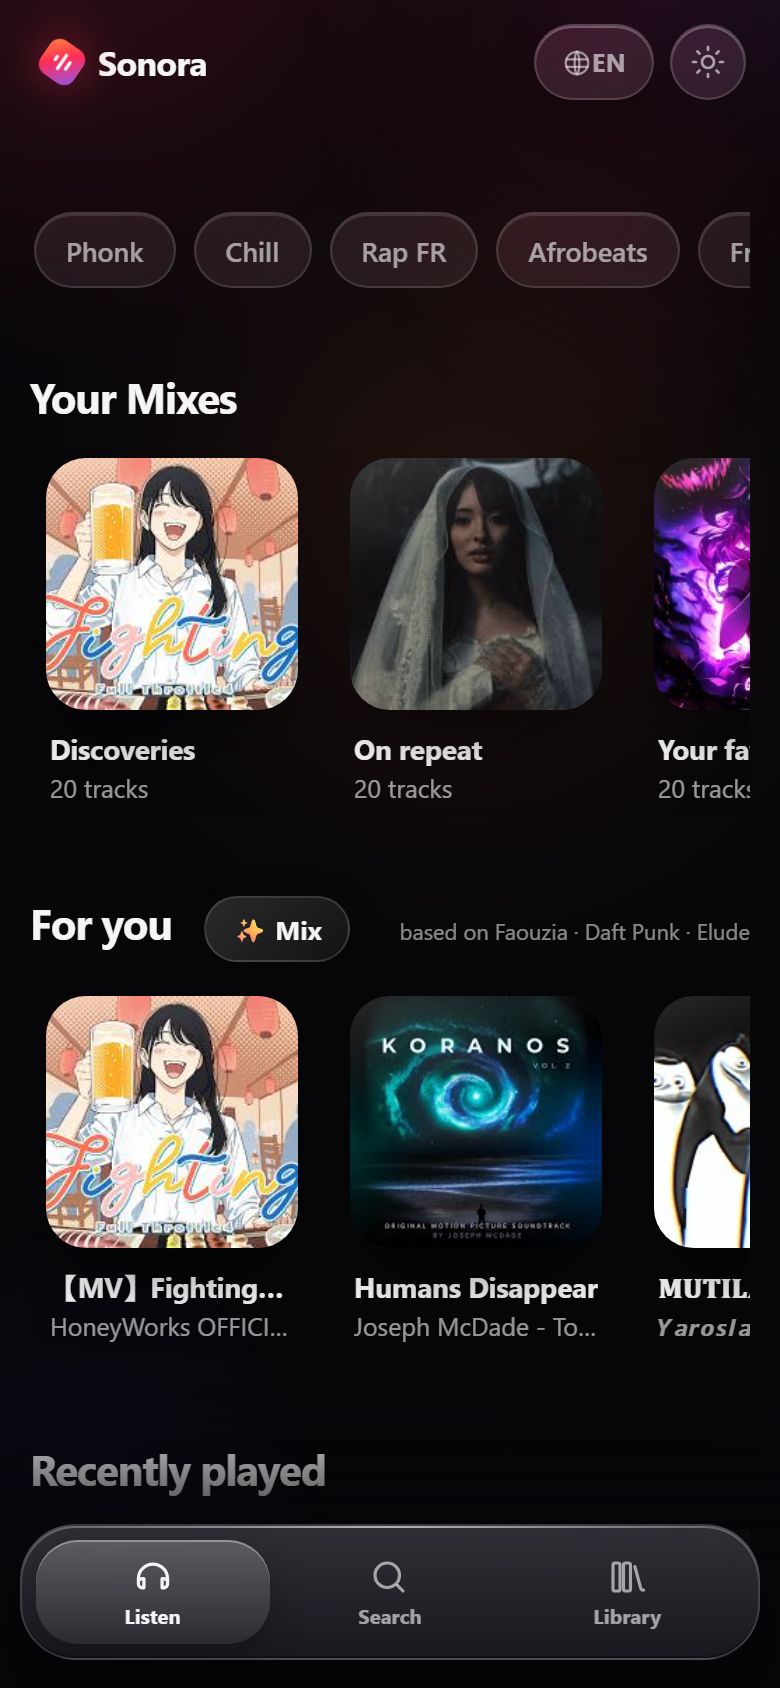
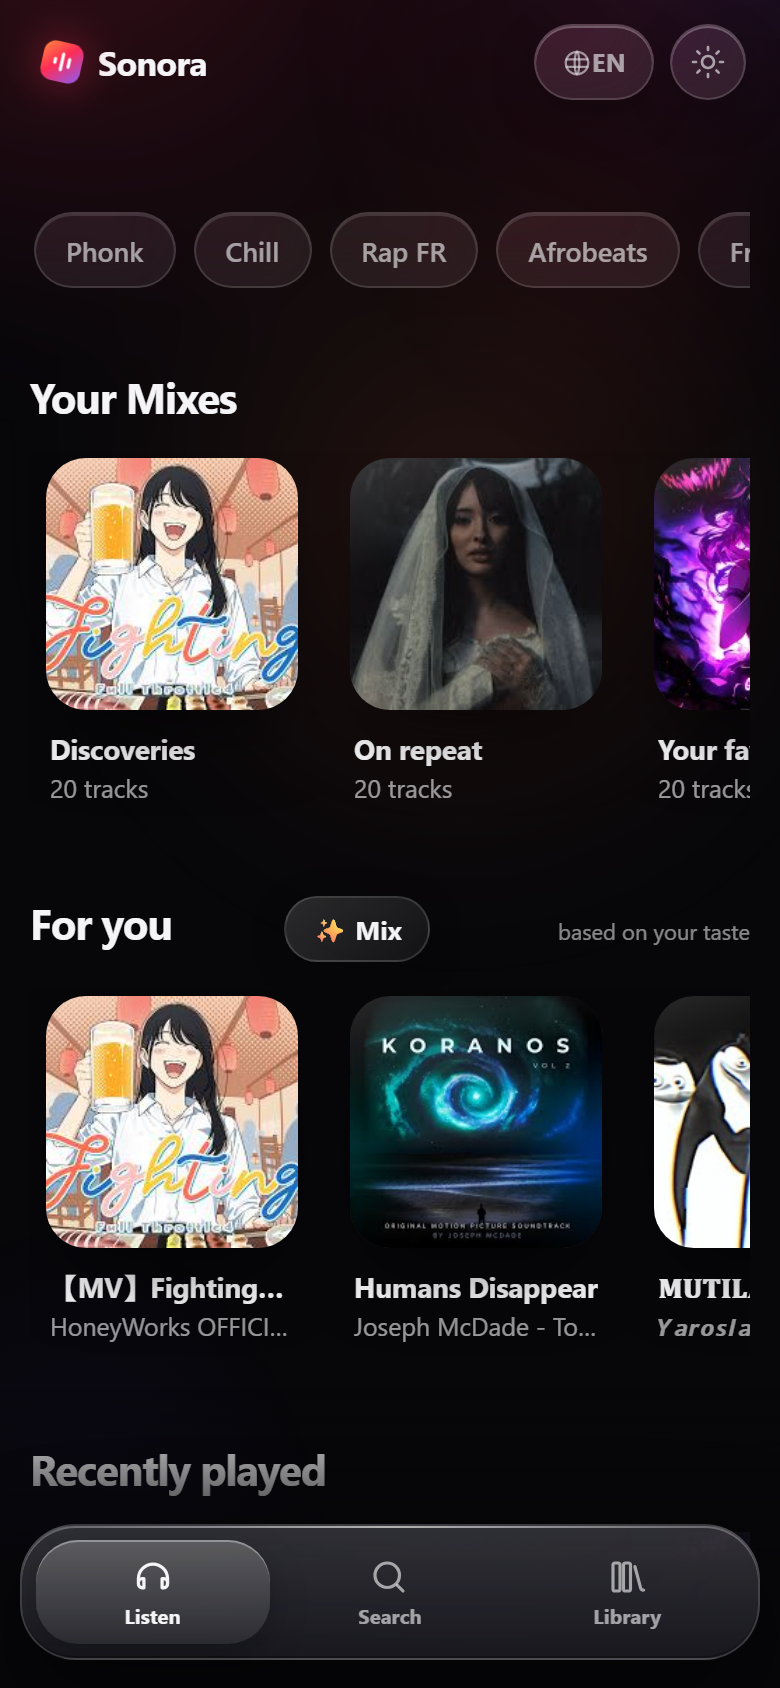
fix: playback watchdog, unavailable-track skip and anonymized screenshots

diff --git a/web/engine.js b/web/engine.js
@@ -106,11 +106,12 @@ var unlocked = false;
 var intentPlay = false;
 var IS_IOS = /iPhone|iPad|iPod/.test(navigator.userAgent) || (navigator.platform === 'MacIntel' && navigator.maxTouchPoints > 1);
 function streamEl() { return IS_IOS ? mediaVideo : mediaAudio; }
-function fallbackAudio(id) {
+function fallbackAudio(id, pos) {
   if (!id) return;
   setBlob('');
   useMedia(mediaAudio);
   media.src = location.origin + '/musique/dl/' + encodeURIComponent(id);
+  if (pos > 0) media.addEventListener('loadedmetadata', function () { try { media.currentTime = pos; } catch (e) {} }, { once: true });
   media.play().catch(function () {});
   paintPlayState();
 }
@@ -276,9 +277,52 @@ function loadPlaylists() {
 
 /* ---------- lecteur ---------- */
 var mediaVideo = null, mediaAudio = null;
+var stallTimer = null;
+var skipTimer = null;
+function clearStall() { if (stallTimer) { clearTimeout(stallTimer); stallTimer = null; } }
+function skipBroken() {
+  if (skipTimer) return;
+  if (!S.queue || S.queue.length < 2) { toast('Lecture impossible pour ce titre'); return; }
+  toast('Titre indisponible — passage au suivant');
+  skipTimer = setTimeout(function () {
+    skipTimer = null;
+    if (!cur) return;
+    S._skipCount = (S._skipCount || 0) + 1;
+    if (S._skipCount > 5) { toast('Lecture impossible'); return; }
+    playNext(true);
+  }, 700);
+}
+function recoverPlayback(el, pos) {
+  if (!cur || media !== el) return;
+  var src = String(el.src || '');
+  var onServer = src.indexOf('/musique/dl/') >= 0;
+  if (onServer && (el._recoverTries || 0) >= 1) { skipBroken(); return; }
+  el._recoverTries = (el._recoverTries || 0) + 1;
+  setBlob('');
+  useMedia(mediaAudio);
+  try { media.pause(); } catch (e) {}
+  media.src = location.origin + '/musique/dl/' + encodeURIComponent(cur.id) + '?r=' + Date.now();
+  media.addEventListener('loadedmetadata', function () { try { media.currentTime = Math.max(0, pos || 0); } catch (e) {} media.play().catch(function () {}); }, { once: true });
+  try { media.load(); } catch (e) {}
+  media.play().catch(function () {});
+  toast('Reconnexion…');
+  armerWatchdog(media);
+}
+function armerWatchdog(el) {
+  if (media !== el || el.paused || !intentPlay) return;
+  clearStall();
+  var t0 = el.currentTime;
+  stallTimer = setTimeout(function () {
+    stallTimer = null;
+    if (media !== el || el.paused || !intentPlay) return;
+    if (Math.abs(el.currentTime - t0) > 0.3) { armerWatchdog(el); return; }
+    recoverPlayback(el, t0);
+  }, 9000);
+}
 function bindMedia(el) {
   el.addEventListener('timeupdate', function () {
     if (media !== el || seekDragging) return;
+    if (el._lastTick !== el.currentTime) { el._lastTick = el.currentTime; if ((el._recoverTries || 0) > 0) el._recoverTries = 0; clearStall(); }
     var d = el.duration || (cur && cur.duration) || 0;
     var p = d ? (el.currentTime / d) * 1000 : 0;
     $('#seek').value = String(p);
@@ -286,8 +330,11 @@ function bindMedia(el) {
     $('#t-cur').textContent = fmt(el.currentTime);
     $('#t-dur').textContent = fmt(d);
   });
-  el.addEventListener('play', function () { if (media === el) { S.playing = true; paintPlayState(); } });
-  el.addEventListener('pause', function () { if (media === el) { S.playing = false; paintPlayState(); } });
+  el.addEventListener('play', function () { if (media === el) { S.playing = true; el._recoverTries = 0; S._skipCount = 0; paintPlayState(); } });
+  el.addEventListener('playing', function () { if (media === el) { clearStall(); el._recoverTries = 0; paintPlayState(); } });
+  el.addEventListener('pause', function () { if (media === el) { S.playing = false; clearStall(); paintPlayState(); } });
+  el.addEventListener('waiting', function () { if (media === el && intentPlay) armerWatchdog(el); });
+  el.addEventListener('stalled', function () { if (media === el && intentPlay) armerWatchdog(el); });
   el.addEventListener('ended', function () {
     if (media !== el) return;
     if (S.repeat === 'one') { el.currentTime = 0; el.play(); return; }
@@ -295,8 +342,8 @@ function bindMedia(el) {
   });
   el.addEventListener('error', function () {
     if (media !== el) return;
-    if (cur && !el._fallbackTried) { el._fallbackTried = true; fallbackAudio(cur.id); return; }
-    toast('Lecture impossible pour ce titre');
+    if (cur && !el._fallbackTried) { el._fallbackTried = true; fallbackAudio(cur.id, el.currentTime || 0); return; }
+    skipBroken();
   });
 }
 function useMedia(el) {
@@ -390,6 +437,10 @@ function playTrack(track, queue, index) {
   cur = track;
   mediaVideo._fallbackTried = false;
   mediaAudio._fallbackTried = false;
+  mediaVideo._recoverTries = 0;
+  mediaAudio._recoverTries = 0;
+  S._skipCount = 0;
+  clearStall();
   paintNow();
   persistQueue();
   if (!IS_IOS && !estTelecharge(track.id) && streamCache[track.id]) {

diff --git a/web/index.html b/web/index.html
@@ -87,7 +87,7 @@
 </div>
 <video id="media" playsinline preload="metadata"></video>
 <audio id="audio" playsinline preload="metadata"></audio>
-<script src="engine.js?v=29"></script>
+<script src="engine.js?v=30"></script>
 <script src="app.js?v=34"></script>
 
 <script>

diff --git a/README.md b/README.md
@@ -34,7 +34,7 @@ Self-hosted music PWA with an Apple Music / Spotify feel: Mix radio, personalize
   </tr>
 </table>
 
-The app UI is available in English (default), French and Spanish; the documentation is in English.
+The app UI is available in English (default), French and Spanish; the documentation is in English. Screenshots use a demo account.
 
 ## Architecture
 

diff --git a/CHANGELOG.md b/CHANGELOG.md
@@ -1,5 +1,9 @@
 # Changelog
 
+## v1.17.1 - 2026-11-24
+- Playback resilience: stall watchdog, automatic recovery and skip of unavailable tracks
+- Anonymized screenshots (demo account, no personal playlist names)
+
 ## v1.17.0 - 2026-11-24
 - English UI added and set as the default language on first launch
 - Language switch now cycles English, Spanish and French
